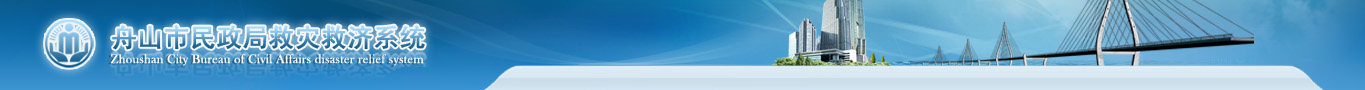
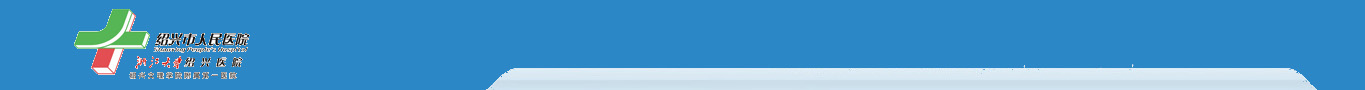
jack commit

diff --git a/resources/public/js/views/altercheckingitempanel.js b/resources/public/js/views/altercheckingitempanel.js
@@ -20,7 +20,7 @@ define(function () {
 
 
         var removeit=function (){
-            console.log(editIndex);
+            //console.log(editIndex);
             if (editIndex == undefined){return;}
             $('#altercheckingitempanel .checkingitems').datagrid('cancelEdit', editIndex)
                 .datagrid('deleteRow', editIndex);
@@ -48,7 +48,7 @@ define(function () {
                             var errorfunc=function(){
                                 $.messager.alert('操作失败','失败!');
                             };
-                            console.log(inserted);
+                            //console.log(inserted);
                             var params= {items:$.toJSON(inserted),relationid:isblh_select};
                             ajaxfrom.ajaxsend('post','json','maintain/addcheckingitemsbyrid',params,success,null,errorfunc)
 

diff --git a/resources/templates/main.html b/resources/templates/main.html
@@ -3,7 +3,7 @@
 <head>
 
     <meta charset="UTF-8">
-    <title>舟山市社会救助管理系统</title>
+    <title>绍兴市人民医院体检系统</title>
     {% style "js/easyui/themes/bootstrap/easyui.css" %}
     {% style "css/screen.css" %}
     {% script "js/easyui/jquery.min.js" %}
@@ -73,7 +73,7 @@
     <div id="tabs" class="easyui-tabs" data-options="fit:true,border:false">
         <div title="主页" id="0" class="indexbackground">
             <div class="cs-home-remark">
-                <h1>欢迎使用网上体检系统</h1>
+                <h1>欢迎使用绍兴市人民医院体检系统</h1>
             </div>
         </div>
     </div>

diff --git a/resources/templates/loginbase.html b/resources/templates/loginbase.html
@@ -1,7 +1,7 @@
 <!DOCTYPE HTML>
 <html>
   <head>
-    <title>欢迎访问浙江数字民政平台</title>
+    <title>欢迎访问绍兴市人民医院体检系统</title>
 
       {% style "css/bootstrap.css" %}
       {% style "css/login.css" %}
@@ -45,7 +45,7 @@
   <footer>
 
       <div id='poweredby'>
-          <a>版权所有：浙江省海予信息技术有限公司 &nbsp;&nbsp;&nbsp;&nbsp;杭州市西湖区文三路天苑花园</a>
+          <a>版权所有：绍兴市人民医院 &nbsp;&nbsp;&nbsp;&nbsp;市区中兴北路568号（昌安环岛西南侧)</a>
       </div>
   </footer>
 </html>

diff --git a/resources/public/js/views/grouppackagechoose.js b/resources/public/js/views/grouppackagechoose.js
@@ -175,7 +175,7 @@ define(function () {
                 $.each(selected,function(index,item)
                     {
                         var isexist=isitemexist(rows,item,$('#grouppackagechoosepanelitems'));
-                        console.log(isexist);
+                        //console.log(isexist);
                         if(isexist.flag)$('#grouppackagechoosepanelitems').datagrid('selectRow',isexist.index);
                     }
                 )

diff --git a/resources/public/js/views/packagechoose.js b/resources/public/js/views/packagechoose.js
@@ -175,7 +175,7 @@ define(function () {
                 $.each(selected,function(index,item)
                     {
                         var isexist=isitemexist(rows,item,$('#packagechoosepanelitems'));
-                        console.log(isexist);
+                        //console.log(isexist);
                         if(isexist.flag)$('#packagechoosepanelitems').datagrid('selectRow',isexist.index);
                     }
                 )

diff --git a/resources/public/js/views/unitcheckingitempanel.js b/resources/public/js/views/unitcheckingitempanel.js
@@ -20,7 +20,7 @@ define(function () {
 
 
         var removeit=function (){
-            console.log(editIndex);
+            //console.log(editIndex);
             if (editIndex == undefined){return;}
             $('#unitcheckingitempanel .checkingitems').datagrid('cancelEdit', editIndex)
                 .datagrid('deleteRow', editIndex);

diff --git a/resources/public/js/views/deptworkquerypanel.js b/resources/public/js/views/deptworkquerypanel.js
@@ -21,7 +21,7 @@ define(function () {
 
                     };
                     var succ=function(data){
-                        console.log(data);
+                        //console.log(data);
                         var results=data.results;
 
                         var div=$('#deptworkquerypanel .content');

diff --git a/resources/templates/maintab.html b/resources/templates/maintab.html
@@ -3,7 +3,7 @@
 <head>
 
     <meta charset="UTF-8">
-    <title>舟山市社会救助管理系统</title>
+    <title>绍兴市人民医院体检系统</title>
     {% style "js/easyui/themes/bootstrap/easyui.css" %}
     {% style "css/screen.css" %}
     {% script "js/easyui/jquery.min.js" %}
